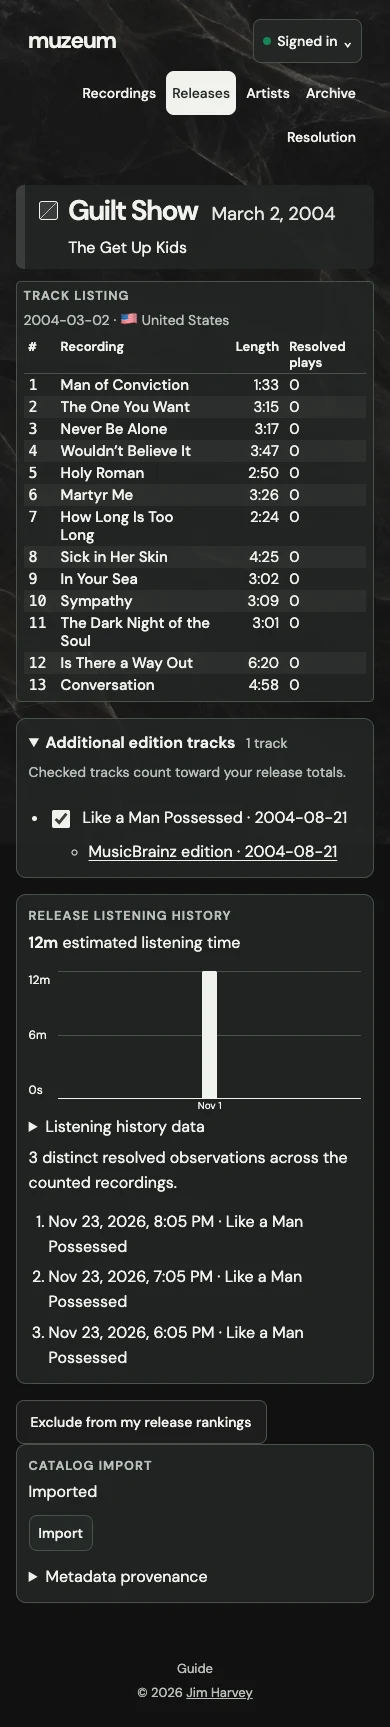
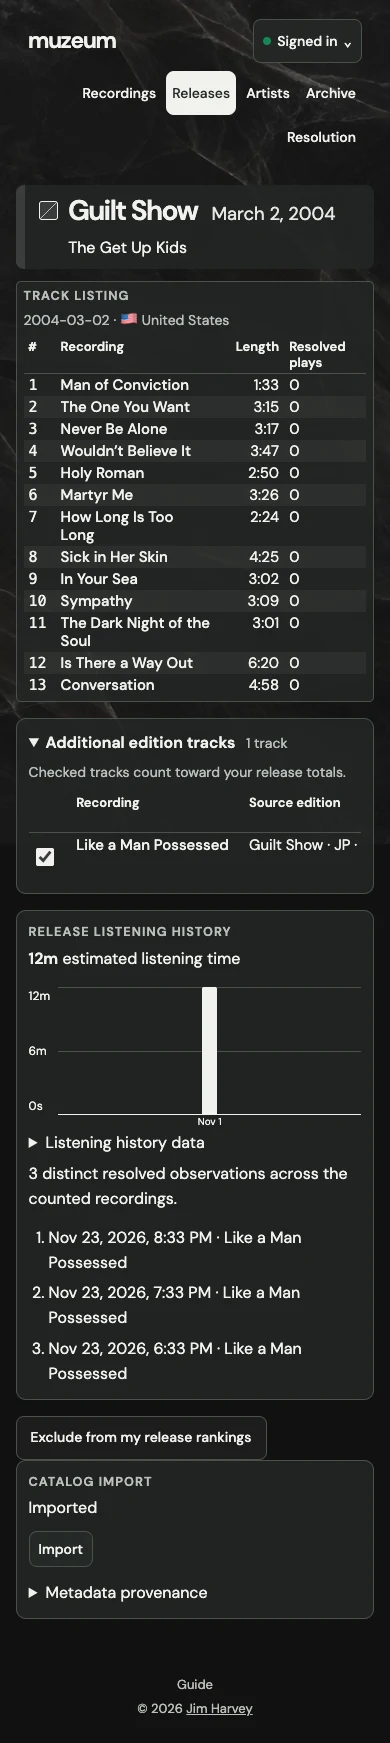
Expose investigation queue status and compact edition track rows

diff --git a/app/assets/stylesheets/application.css b/app/assets/stylesheets/application.css
@@ -934,7 +934,7 @@ h3.resolution-release-title {
 
 .library-card .additional-edition-tracks { margin-block-start: 0; }
 .additional-edition-tracks summary .muted { margin-inline-start: .4rem; }
-.investigation-progress ul { display: flex; flex-wrap: wrap; gap: .25rem; list-style: none; padding: 0; margin: .4rem 0; }
+.investigation-progress ul { display: flex; flex-wrap: wrap; gap: .25rem; list-style: none; width: fit-content; max-width: 100%; padding: .25rem; margin: .4rem 0; border: 1px solid var(--line); border-radius: .55rem; }
 .investigation-progress li { padding: .2rem .55rem; color: var(--muted); font-size: .82rem; }
 .investigation-progress li[aria-current="true"] { border-radius: 1rem; background: var(--ink); color: var(--card); font-weight: 700; }
 .investigation-progress p { margin-block: .25rem; }
@@ -955,3 +955,18 @@ h3.resolution-release-title {
 .release-edition-option label { display: flex; gap: .45rem; align-items: center; margin: 0; cursor: pointer; }
 .release-edition-option input[type="radio"] { inline-size: 1rem; min-height: 1rem; padding: 0; cursor: pointer; }
 .release-edition-option a { font: .85rem monospace; }
+
+:is(.investigation-progress, .investigation-badge) [data-state="queued"] { --status-ink: #674a00; --status-fill: #ffebad; }
+:is(.investigation-progress, .investigation-badge) [data-state="investigating"] { --status-ink: #123d72; --status-fill: #d8eaff; }
+:is(.investigation-progress, .investigation-badge) [data-state="retrying"] { --status-ink: #793800; --status-fill: #ffdec4; }
+.investigation-progress [data-state="complete"], .investigation-badge[data-state="complete"] { --status-ink: #155333; --status-fill: #d1f4dc; }
+.investigation-progress [data-state="review"], .investigation-badge[data-state="review"] { --status-ink: #552985; --status-fill: #eddefe; }
+.investigation-progress li[data-state] { color: var(--status-ink); background: var(--status-fill); border-radius: .4rem; }
+.investigation-progress li[aria-current="true"] { color: var(--status-fill); background: var(--status-ink); }
+.investigation-badge[data-state] { color: var(--status-ink); background: var(--status-fill); }
+.investigation-queue-details { font-size: .85rem; }
+.investigation-queue-details p { margin-block: .25rem; }
+.additional-track-table { min-width: 41rem; table-layout: auto; }
+.additional-track-table .additional-track-check { width: 2rem; }
+.additional-track-table .additional-track-sources { display: inline-block; margin: 0 .3rem; font-size: .8rem; }
+.additional-track-table :is(th, td) { white-space: nowrap; }

diff --git a/app/javascript/controllers/investigation_sync_controller.js b/app/javascript/controllers/investigation_sync_controller.js
@@ -2,18 +2,29 @@ import { Controller } from "@hotwired/stimulus"
 import { Turbo } from "@hotwired/turbo-rails"
 
 export default class extends Controller {
-  static values = { checkAt: String }
+  static values = { checkAt: String, pending: Boolean }
   connect() {
     this.source = this.element.querySelector("turbo-cable-stream-source")
     this.observer = new MutationObserver(() => this.catchUp())
     this.observer.observe(this.source, { attributes: true, attributeFilter: ["connected"] })
     this.catchUp()
     this.checkAtValueChanged()
+    this.pendingValueChanged()
   }
 
   disconnect() {
     this.observer.disconnect()
     clearTimeout(this.checkTimer)
+    clearInterval(this.queueTimer)
+  }
+
+  pendingValueChanged() {
+    clearInterval(this.queueTimer)
+    if (this.pendingValue) {
+      this.queueTimer = setInterval(() => {
+        if (!document.hidden) this.refresh()
+      }, 15000)
+    }
   }
 
   checkAtValueChanged() {

diff --git a/spec/system/canonical_library_spec.rb b/spec/system/canonical_library_spec.rb
@@ -506,7 +506,7 @@ RSpec.describe "Canonical library resolution workflow", type: :system do
       .to eq(selected.slots.pluck(:source_recording_mbid))
     visit release_path(release)
     find("summary", text: /Additional edition tracks.*4 tracks/).click
-    expect(page).to have_css(".additional-edition-tracks > ul > li", count: 4)
+    expect(page).to have_css(".additional-track-table tbody tr", count: 4)
     expect(release.catalog_track_slots.additional_appearances).to be_empty
     find('input[aria-label="Count Love Ballad in release listening totals"]').send_keys(:space)
     expect(page).to have_css('input[aria-label="Count Love Ballad in release listening totals"]:checked')
@@ -551,7 +551,14 @@ RSpec.describe "Canonical library resolution workflow", type: :system do
     expect(page).to have_css("details.additional-edition-tracks:not([open])", text: "Additional edition tracks")
     within(".additional-edition-tracks") { expect(page).to have_no_link("Like a Man Possessed") }
     find("summary", text: "Additional edition tracks").send_keys(:enter)
-    expect(page).to have_text("Like a Man Possessed · 2004-08-21")
+    within(".additional-track-table tbody tr") do
+      expect(page).to have_link("Like a Man Possessed")
+      edition = guilt_show_editions.second.fetch("id")
+      expect(page).to have_css("a[href='https://musicbrainz.org/release/#{edition}']", exact_text: edition.first(8))
+      expect(page).to have_text("Guilt Show")
+      expect(page).to have_text("4:08")
+      expect(page).to have_css("td:last-child", exact_text: "3")
+    end
     browser = page.driver.browser
     browser.execute_cdp("Emulation.setDeviceMetricsOverride", width: 1280, height: 800, deviceScaleFactor: 1, mobile: false)
     browser.execute_cdp("Emulation.setEmulatedMedia", features: [ { name: "prefers-color-scheme", value: "light" } ])
@@ -578,6 +585,16 @@ RSpec.describe "Canonical library resolution workflow", type: :system do
     visit page.current_url
     expect(page).to have_css("#{checkbox}:checked")
     page.execute_script("window.scrollTo(0, 0)")
+    expect(page.evaluate_script(<<~JS)).to be(true)
+      (() => {
+        const row = document.querySelector(".additional-track-table tbody tr")
+        const scroller = row.closest(".table-scroll")
+        scroller.scrollLeft = scroller.scrollWidth
+        const visible = scroller.scrollLeft > 0 && row.lastElementChild.textContent.trim() === "3"
+        scroller.scrollLeft = 0
+        return visible && document.documentElement.scrollWidth <= innerWidth
+      })()
+    JS
     capture_resolution("guilt-show-track-preferences", full: true)
     browser.execute_cdp("Emulation.clearDeviceMetricsOverride")
     browser.execute_cdp("Emulation.setEmulatedMedia", features: [])
@@ -707,9 +724,45 @@ RSpec.describe "Canonical library resolution workflow", type: :system do
     expect(page).to have_css(state, exact_text: "Queued")
     expect(page).to have_css(".investigation-progress li", count: 5)
     expect(page).to have_css("#{stream}[connected]", visible: :all)
-    capture_resolution("investigation-queued", full: true)
+    expect(page).to have_text("Eligible worker unavailable")
+    expect(page).to have_text("A reliable position is unavailable")
+    colors = page.evaluate_script("Array.from(document.querySelectorAll('.investigation-progress li'), node => getComputedStyle(node).backgroundColor)")
+    expect(colors.uniq.size).to eq(5)
 
     request = CatalogImport.where(kind: RecordingResolution::Investigation::KIND).sole
+    queued = SolidQueue::ReadyExecution.sole
+    worker = SolidQueue::Process.create!(kind: "Worker", name: "queue-test", pid: 1, hostname: "test",
+      created_at: 12.minutes.ago, last_heartbeat_at: Time.current, metadata: { queues: "default,canonical_catalog", pool_size: 1 })
+    higher = CanonicalCatalogJob.new(0).serialize.merge("queue_name" => "default")
+    job = SolidQueue::Job.create!(queue_name: "default", class_name: CanonicalCatalogJob.name, arguments: higher, priority: 0)
+    Turbo::StreamsChannel.broadcast_refresh_to(request, method: :morph, scroll: :preserve)
+    expect(page).to have_text("1 ready job ahead at last check")
+    capture_resolution("investigation-queued", full: true)
+
+    job.ready_execution.destroy!
+    SolidQueue::ClaimedExecution.create!(job:, process_id: worker.id)
+    queued.update!(created_at: 10.minutes.ago)
+    Turbo::StreamsChannel.broadcast_refresh_to(request, method: :morph, scroll: :preserve)
+    expect(page).to have_text("Eligible workers are busy")
+    expect(page).to have_text("Time waiting 10:")
+    expect(page).to have_css(state, exact_text: "Queued")
+
+    job.destroy!
+    expect(page).to have_text("The queue appears stalled", wait: 20)
+    expect(page).to have_no_css(".investigation-progress")
+    worker.update!(last_heartbeat_at: 30.minutes.ago)
+    Turbo::StreamsChannel.broadcast_refresh_to(request, method: :morph, scroll: :preserve)
+    expect(page).to have_text("No eligible worker has a current heartbeat")
+    expect(page).to have_no_css(".investigation-progress")
+
+    waiting_job = queued.job
+    queued.destroy!
+    waiting_job.update!(concurrency_key: "queue-test")
+    SolidQueue::BlockedExecution.create!(job: waiting_job)
+    Turbo::StreamsChannel.broadcast_refresh_to(request, method: :morph, scroll: :preserve)
+    expect(page).to have_text("Blocked by a concurrency limit")
+    expect(page).to have_no_text("ready job ahead")
+
     SolidQueue::Job.where(class_name: CanonicalCatalogJob.name).destroy_all
     request.update!(due_at: 10.minutes.from_now)
     Turbo::StreamsChannel.broadcast_refresh_to(request, method: :morph, scroll: :preserve)
@@ -722,7 +775,14 @@ RSpec.describe "Canonical library resolution workflow", type: :system do
     browser.execute_cdp("Emulation.setDeviceMetricsOverride", width: 390, height: 844, deviceScaleFactor: 1, mobile: true)
     browser.execute_cdp("Emulation.setEmulatedMedia", features: [ { name: "prefers-color-scheme", value: "dark" } ])
     expect(page.evaluate_script("document.documentElement.scrollWidth <= innerWidth")).to be(true)
+    dark_colors = page.evaluate_script("Array.from(document.querySelectorAll('.investigation-progress li'), node => getComputedStyle(node).backgroundColor)")
+    expect(dark_colors.uniq.size).to eq(5)
     capture_resolution("investigation-retry-mobile-dark")
+
+    SolidQueue::ScheduledExecution.sole.update!(scheduled_at: 10.minutes.ago)
+    Turbo::StreamsChannel.broadcast_refresh_to(request, method: :morph, scroll: :preserve)
+    expect(page).to have_text("The attempt is due and no dispatcher has a current heartbeat.")
+    expect(page).to have_no_css(".investigation-progress")
 
     request.update!(due_at: 1.second.ago)
     CanonicalCatalog::Processor.new(request, session_factory: ->(*) { CatalogFixtures::Session.new }).call do

diff --git a/app/services/recording_resolution/queue_status.rb b/app/services/recording_resolution/queue_status.rb
@@ -1,0 +1,117 @@
+module RecordingResolution
+  class QueueStatus
+    attr_reader :state, :phase, :worker, :ahead, :waiting_seconds, :scheduled_at, :attention
+
+    def initialize(request)
+      return unless request.active?
+      if request.state == "refreshing" && request.lease_until&.future?
+        @state = :investigating
+        return
+      end
+      return unless CanonicalCatalogJob.queue_adapter.is_a?(ActiveJob::QueueAdapters::SolidQueueAdapter)
+
+      @now = Time.current
+      @queue = CanonicalCatalogJob.queue_name
+      jobs = SolidQueue::Job.where(queue_name: @queue, finished_at: nil, class_name: CanonicalCatalogJob.name)
+        .where("arguments::jsonb -> 'arguments' -> 0 = CAST(? AS jsonb)", request.id.to_s)
+      ready = executions(SolidQueue::ReadyExecution, jobs).order(:priority, :job_id).first
+      blocked = executions(SolidQueue::BlockedExecution, jobs).order(:created_at).first
+      scheduled = executions(SolidQueue::ScheduledExecution, jobs).order(:scheduled_at).first
+      claimed = executions(SolidQueue::ClaimedExecution, jobs).order(:created_at).first if request.state == "pending"
+      execution = ready || claimed || blocked || scheduled
+      return unless execution
+
+      @state = :queued
+      @phase = if ready
+        :ready
+      elsif claimed
+        :claimed
+      elsif blocked
+        :blocked
+      elsif scheduled.scheduled_at > @now
+        @scheduled_at = scheduled.scheduled_at
+        @state = :retrying
+        :scheduled
+      else
+        :dispatching
+      end
+      since = phase == :dispatching ? scheduled.scheduled_at : execution.created_at
+      @waiting_seconds = [ (@now - since).floor, 0 ].max
+      if phase == :claimed
+        @worker = :assigned
+      else
+        inspect_workers(ready)
+      end
+      inspect_delay
+    rescue ActiveRecord::ActiveRecordError => error
+      Rails.logger.warn("Investigation queue lookup failed for #{request.id}: #{error.class}")
+      @state = :unavailable
+    end
+
+    private
+
+    def executions(model, jobs)
+      model.where(job_id: jobs.select(:id))
+    end
+
+    def live_processes(kind)
+      SolidQueue::Process.where(kind:).where("last_heartbeat_at > ?", @now - SolidQueue.process_alive_threshold)
+    end
+
+    def inspect_workers(ready)
+      @paused = SolidQueue::Pause.exists?(queue_name: @queue)
+      processes = live_processes("Worker").to_a
+      selectors = processes.to_h { |process| [ process.id, process.metadata["queues"].presence&.split(",")&.map(&:strip) ] }
+      eligible = processes.select do |process|
+        Array(selectors[process.id]).any? { |name| name.end_with?("*") ? @queue.start_with?(name.delete_suffix("*")) : name == @queue }
+      end
+      unknown = selectors.values.any?(&:nil?)
+      claims = SolidQueue::ClaimedExecution.where(process_id: eligible.map(&:id)).group(:process_id).count
+      @worker = if @paused
+        :paused
+      elsif eligible.empty?
+        unknown ? :unknown : :unavailable
+      elsif eligible.any? { |process| capacity(process).to_i > claims.fetch(process.id, 0) }
+        :available
+      elsif unknown || eligible.any? { |process| !capacity(process)&.positive? }
+        :unknown
+      else
+        :busy
+      end
+
+      orders = eligible.map { |process| selectors.fetch(process.id) }.uniq
+      if ready && !@paused && !unknown && orders.one? && orders.first.none? { |name| name.include?("*") }
+        higher = orders.first.take_while { |name| name != @queue } - SolidQueue::Pause.pluck(:queue_name)
+        @ahead = SolidQueue::ReadyExecution.where(queue_name: higher).count +
+          SolidQueue::ReadyExecution.where(queue_name: @queue)
+            .where("(priority, job_id) < (?, ?)", ready.priority, ready.job_id).count
+      end
+      @longest_worker_age = eligible.map { |process| @now - process.created_at }.max.to_i
+    end
+
+    def capacity(process)
+      Integer(process.metadata["pool_size"], exception: false)
+    end
+
+    def inspect_delay
+      return @attention = :paused if @paused && phase != :scheduled
+
+      threshold = Integer(ENV.fetch("MUZEUM_INVESTIGATION_QUEUE_WAIT_SECONDS", "300"), exception: false)
+      threshold = 300 unless threshold&.positive?
+      return if waiting_seconds < threshold || phase.in?([ :scheduled, :claimed ])
+
+      @attention = if phase == :dispatching
+        live_processes("Dispatcher").exists? ? :dispatch_stalled : :dispatcher_unavailable
+      elsif worker == :unavailable
+        :worker_unavailable
+      elsif phase == :blocked
+        :blocked
+      elsif worker == :available && ahead == 0 && @longest_worker_age >= threshold && SolidQueue.preserve_finished_jobs? &&
+          !SolidQueue::Job.where(finished_at: (@now - threshold)..).exists?
+        :stalled
+      elsif worker != :busy
+        :delayed
+      end
+    end
+  end
+end

diff --git a/app/controllers/canonical_library_controller.rb b/app/controllers/canonical_library_controller.rb
@@ -61,8 +61,13 @@ class CanonicalLibraryController < ApplicationController
       end
       @counted_tracks = ReleaseTrackListeningDecision.included_memberships(listening_user, [ @entry.id ])
         .pluck(:recording_id).to_set
-      @track_counts = recording_plays(base_slots.distinct.pluck(:recording_id))
+      @additional_recordings = Recording.where(mbid: @additional_edition_evidence.pluck("recording_mbid")).index_by(&:mbid)
+      base_recording_ids = base_slots.distinct.pluck(:recording_id)
+      track_recording_ids = base_recording_ids | @additional_appearances.map(&:recording_id) |
+        @additional_recordings.values.map(&:id)
+      @track_counts = recording_plays(track_recording_ids)
         .group("effective_resolution.recording_id").count(:id)
+      @base_track_max = @track_counts.values_at(*base_recording_ids).compact.max.to_i
       other_ids = Array(params[:with_release]).first(PAGE).map { |id| Integer(id, exception: false) }.compact
       @activity_releases = catalog_scope.where(id: [ @entry.id, *other_ids ]).order(:id).to_a
       member_ids = ReleaseTrackListeningDecision.included_memberships(listening_user, @activity_releases.map(&:id)).pluck(:recording_id)
@@ -222,7 +227,8 @@ class CanonicalLibraryController < ApplicationController
         mbid = track["recording_mbid"]
         next unless Clients::Musicbrainz::MBID.match?(mbid.to_s) && track["title"].present?
 
-        track.merge("edition_mbid" => edition["id"], "comparison_group" => track["comparison_group"] || mbid)
+        track.merge("edition_mbid" => edition["id"], "edition_name" => edition["title"], "edition_country" => edition["country"],
+          "comparison_group" => track["comparison_group"] || mbid)
       end
     end
   rescue ArgumentError

diff --git a/app/models/catalog_import.rb b/app/models/catalog_import.rb
@@ -26,24 +26,7 @@ class CatalogImport < ApplicationRecord
   end
 
   def investigation_queue_state
-    return unless active?
-    return :investigating if state == "refreshing" && lease_until&.future?
-
-    adapter = CanonicalCatalogJob.queue_adapter
-    return unless adapter.is_a?(ActiveJob::QueueAdapters::SolidQueueAdapter)
-
-    jobs = SolidQueue::Job.where(queue_name: "canonical_catalog", finished_at: nil, class_name: CanonicalCatalogJob.name)
-      .where("arguments::jsonb -> 'arguments' -> 0 = CAST(? AS jsonb)", id.to_s)
-    return :queued if jobs.joins(:ready_execution).exists? || jobs.joins(:blocked_execution).exists? ||
-      (state == "pending" && jobs.joins(:claimed_execution).exists?)
-
-    scheduled = jobs.joins(:scheduled_execution).minimum("solid_queue_scheduled_executions.scheduled_at")
-    return unless scheduled
-
-    due_at.future? && scheduled.future? ? :retrying : :queued
-  rescue ActiveRecord::ActiveRecordError => error
-    Rails.logger.warn("Investigation queue lookup failed for #{id}: #{error.class}")
-    :unavailable
+    RecordingResolution::QueueStatus.new(self).state
   end
 
   def expired_investigation?

diff --git a/docs/v0.7.0/implementation.md b/docs/v0.7.0/implementation.md
@@ -46,3 +46,9 @@ Migration `20261123231500` adds nullable source recording MBID, duration, and cr
 - **Provider recording equivalence.** Muzeum currently identifies a canonical recording by one MusicBrainz MBID. Distinct provider IDs remain distinct candidates, with the source's clean or explicit description visible. A revisable mapping needs to bind source MBIDs to a canonical recording while preserving each slot's source recording identity. The new per-slot source identity preserves verified fingerprints independently from the canonical pointer. A future mapping still needs an append-only source-identity decision with transactional lookup and confirmation-plan revalidation. Existing confirmed canonicals and decisions should remain intact.
 - Full original-edition adjudication for *Queen of the Clouds* and new bounded replays for the *Lady Wood* observations still require verification. The retained production assessments establish the prior evidence gap, while they do not establish a fresh provider result.
 - A worker exception that can persist its failure is shown as Failed — Needs Codex. Abrupt process loss can only be inferred from the persisted lease and the available queue records.
+
+### Queue visibility
+
+Resolution reads Solid Queue execution records for the current attempt. Waiting time starts at the ready or blocked receipt, or at the due timestamp for an overdue scheduled job. Future retries show time since enqueue and the actual scheduled timestamp. Current worker heartbeats, queue selectors, pool size, and claimed jobs provide a capacity snapshot. A ready-job count is shown when eligible workers agree on an explicit queue order. It can change between checks as jobs arrive or are claimed.
+
+The long-wait threshold defaults to 300 seconds and can be set with `MUZEUM_INVESTIGATION_QUEUE_WAIT_SECONDS`. A busy worker stays visible as busy. Paused queues, absent workers after the threshold, and overdue dispatch are identified separately. A prolonged ready wait with reported free capacity, zero ready jobs ahead, and no recent retained job completions is flagged as an apparent stall. Availability and ordering are snapshots, and Solid Queue does not supply a guaranteed start time. The page refreshes pending snapshots through Turbo every 15 seconds while visible and catches up on Cable reconnect.

diff --git a/docs/design/v0.7.0/README.md b/docs/design/v0.7.0/README.md
@@ -1,9 +1,9 @@
 # Musical collections and investigation
 
-Chrome captures use disposable data and retained MusicBrainz fixtures. The investigation views use actual Solid Queue executions and a persisted outcome. The Guilt Show views show the same 13-track base with the Japanese-edition track excluded and included. The Queen of the Clouds views show how choosing an edition changes the proposed base and its additions.
+Chrome captures use disposable data and retained MusicBrainz fixtures. The investigation views use recorded Solid Queue executions. The Guilt Show views preserve the 13-track base and show the Japanese-edition track’s three resolved plays with the checkbox unchecked and checked. On mobile, the additional-track table scrolls horizontally to expose source IDs, durations, and counts.
 
 | View | Capture |
 | --- | --- |
-| Investigation progress and outcome | [Desktop light · Queued](investigation-queued.webp) · [Mobile dark · Waiting to retry](investigation-retry-mobile-dark.webp) · [Desktop dark · Complete](investigation-complete.webp) |
-| Guilt Show inline listening control | [Desktop · Unchecked](guilt-show-additional-tracks.webp) · [Mobile dark · Checked](guilt-show-track-preferences.webp) |
+| Semantic investigation states and queue details | [Desktop light · Queued](investigation-queued.webp) · [Mobile dark · Waiting to retry](investigation-retry-mobile-dark.webp) · [Desktop dark · Complete](investigation-complete.webp) |
+| Guilt Show compact additional track | [Desktop · Provenance and independent play count](guilt-show-additional-tracks.webp) · [Mobile dark · Checked](guilt-show-track-preferences.webp) |
 | Queen of the Clouds edition comparison | [Desktop light · Canadian 16-track base](queen-release-comparison-desktop.webp) · [Mobile dark · Worldwide 20-track base](queen-release-comparison-mobile-dark.webp) |
